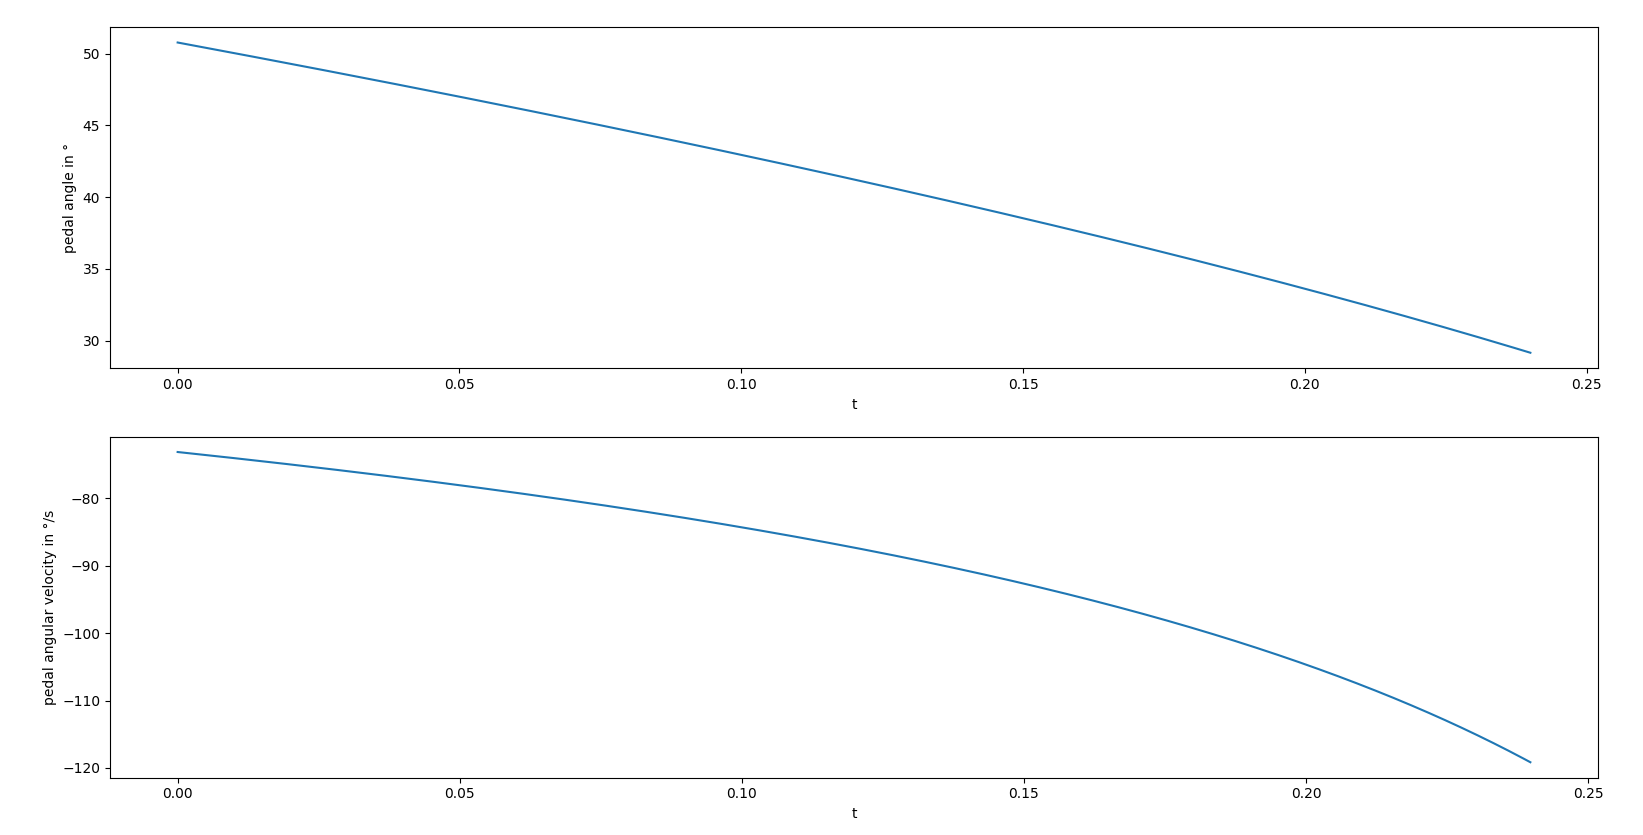
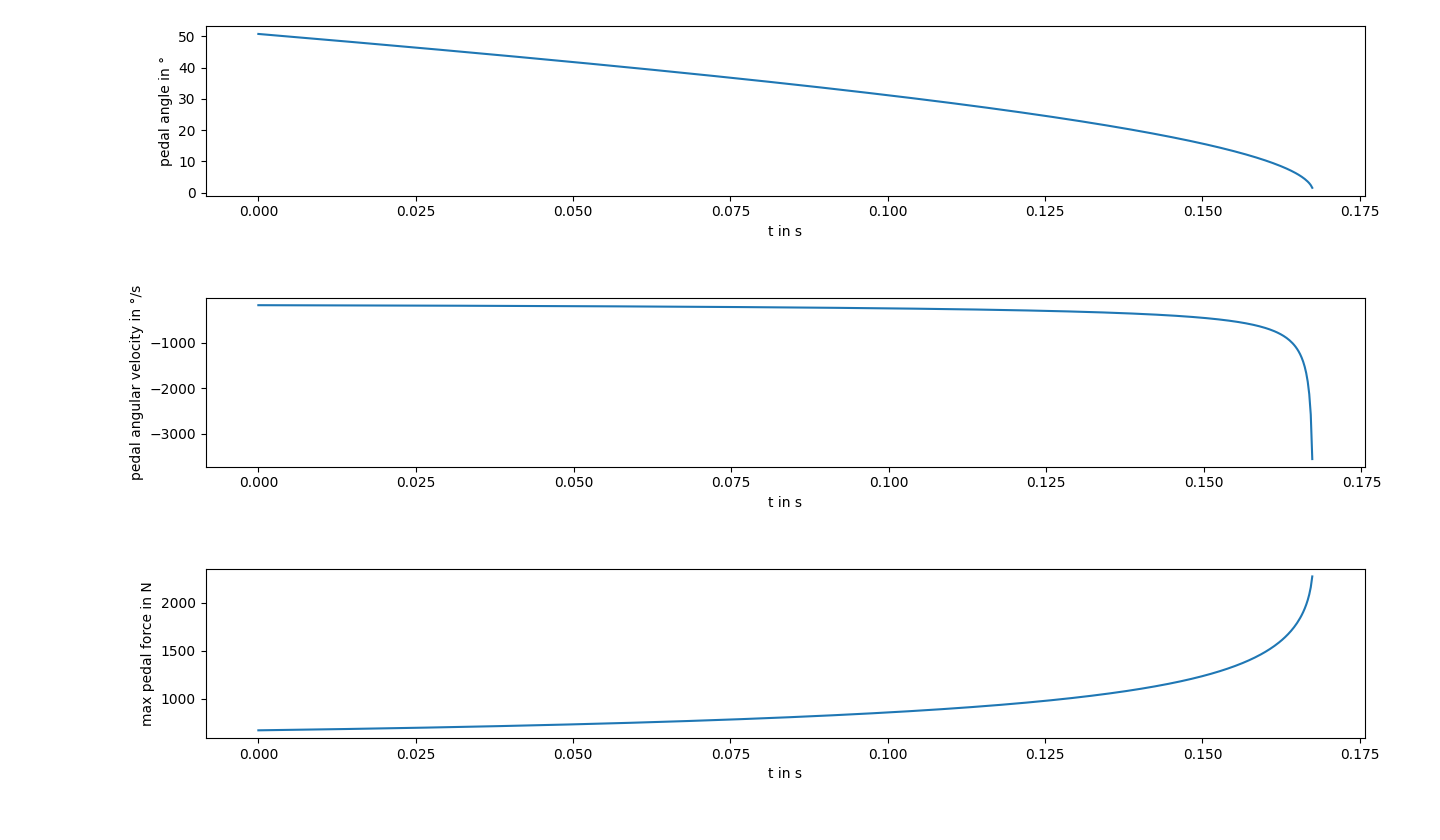
Added pedal force caclulation

diff --git a/Validation/PedalKinematics/main.py b/Validation/PedalKinematics/main.py
@@ -6,13 +6,20 @@ import matplotlib.pyplot as plt
 # parameterize pedal geometry here
 # see https://de.wikipedia.org/wiki/Kosinussatz
 a = 200.0 # length of the loadcell rod
-b = 200.0 # length between pedal pivots
+b = 120.0 # length between pedal pivots
 c0 = 80.0 # vertical offset of rear pivot point from lower front pivot
 c1 = 240.0 # horizontal offset of rear pivot point from lower front pivot
+
+
 
 maxRpm = 5000 # maximum servo RPMs
 spinglePitch_inMm = 5 # spindle pitch
 
+eta = 0.83 #spindle efficiency
+T = 1.1 # max motor torque: iSV57-t 130W 1.1 Nm
+lengthTillPedal = b + 100 # length between lower pivot point and pedal face center
+# see https://www.leadshine.com/downUeditor/image/20220609/26f4270682821c78ce90b12b5bc9e9af.JPG
+# see https://www.leadshine.com/product-detail/iSV-B23130T-S21.html
 
 
 
@@ -40,17 +47,36 @@ if __name__ == '__main__':
     # numerically calculate angular velocity
     d_alpha = np.diff(alpha) / delta_T
 
+    # calculate the max force at spindle
+    # see https://tech.thk.com/de/products/pdf/de_b17_009.pdf
+    F_a = 2 * np.pi * T / spinglePitch_inMm * eta * 1e3
+
+    # calculate the max force at pedal plate
+    # sin(phi) * F_p + F_lp = F_a
+    # F_p: axial pedal force
+    # F_lp: horizontal force at lower pivot point
+    # F_lp = lengthTillPedal / b * F_p
+    alpha0 = np.arcsin( c0 / c ) * 180 / np.pi
+    phi = alpha + alpha0
+    F_p = F_a / ( np.sin(phi * np.pi / 180) * lengthTillPedal / b  )
+
     # plot routine
-    plt.subplot(2,1,1)
+    plt.subplot(3,1,1)
     plt.plot(t, alpha)
-    plt.xlabel('t')
+    plt.xlabel('t in s')
     plt.ylabel('pedal angle in °')
 
-    plt.subplot(2, 1, 2)
+    plt.subplot(3, 1, 2)
     plt.plot(t[:-1], d_alpha)
-    plt.xlabel('t')
+    plt.xlabel('t in s')
     plt.ylabel('pedal angular velocity in °/s')
 
+    plt.subplot(3,1,3)
+    plt.plot(t, F_p)
+    plt.xlabel('t in s')
+    plt.ylabel('max pedal force in N')
+
+    plt.tight_layout()
     plt.draw()
     plt.show(block=True)
 
